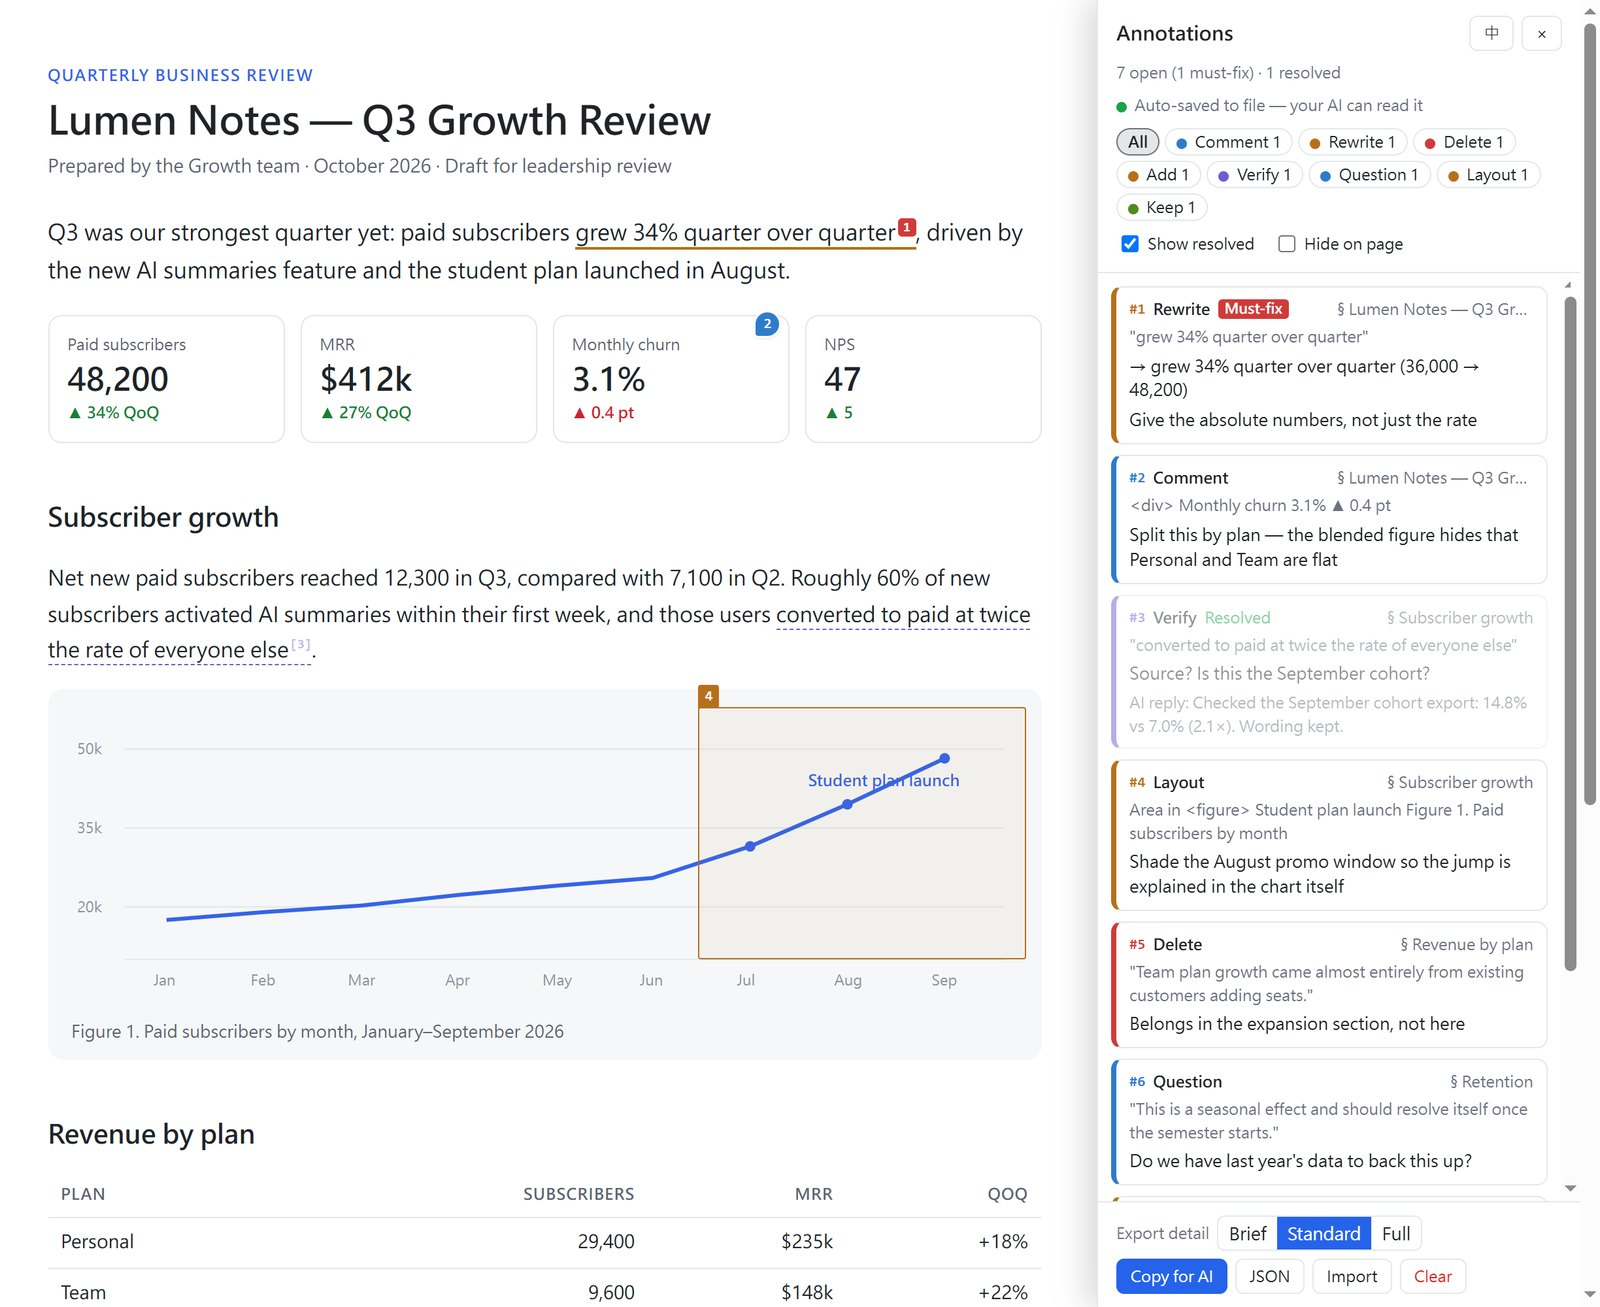
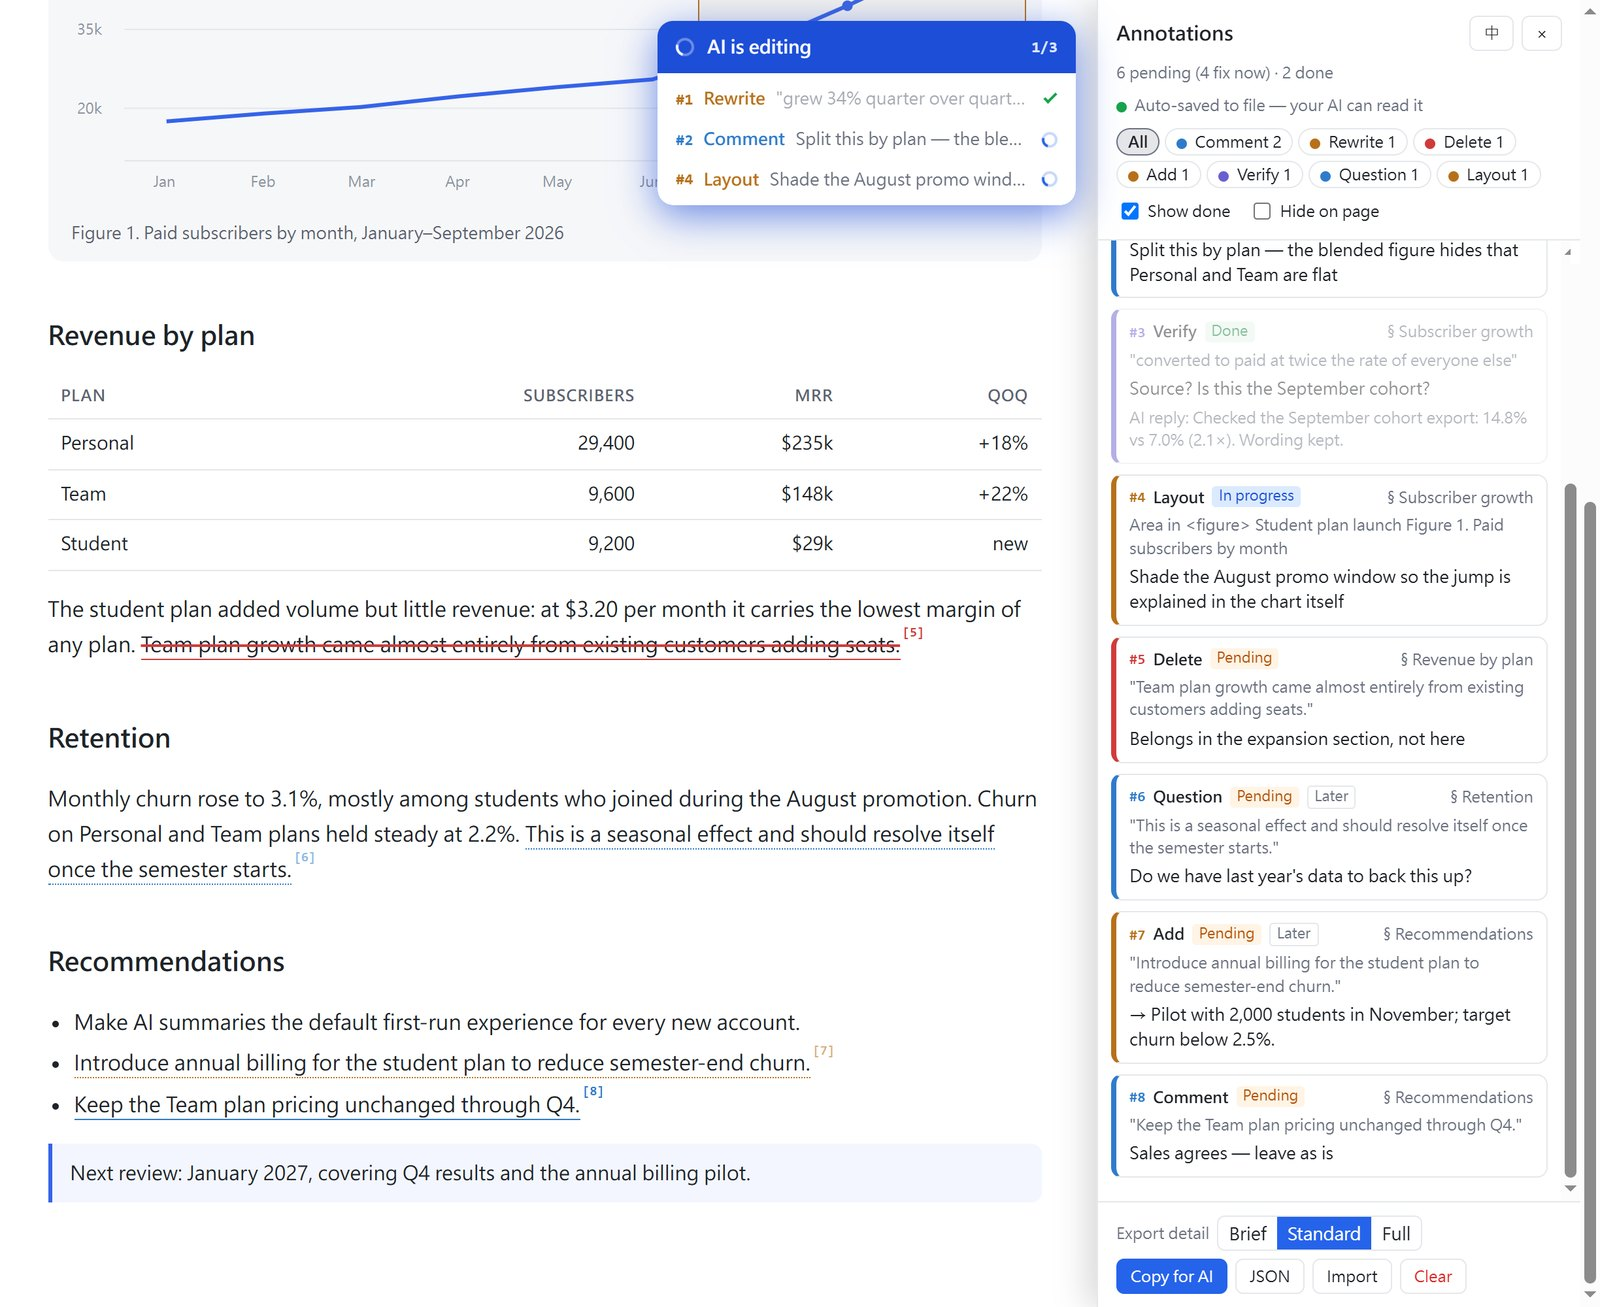
v1.3.0 docs, showcase and screenshots; number anchor at end of wrapped marks
- [n] now hangs off a zero-width anchor after the last character, so marks that
  wrap across lines show their number at the end (layout still untouched)
- SKILL.md: live watch loop, read the full report first, fix every occurrence
- README rewritten short and plain; covers fix-now, watch, status, live refresh
- Showcase: no "keep", two "later" items; screenshots show the AI banner at 1/3

diff --git a/pin4html.js b/pin4html.js
@@ -533,6 +533,7 @@
     mark.p4h-hl[data-n]::after{content:'[' attr(data-n) ']';position:absolute;left:100%;top:-.55em;margin-left:1px;padding:0 1px;border-radius:2px;
       background:rgba(255,255,255,.85);color:var(--p4h-c);white-space:nowrap;
       font:600 10px/1.2 ui-monospace,SFMono-Regular,Menlo,Consolas,monospace;text-indent:0;letter-spacing:0;text-decoration:none}
+    mark.p4h-hl.p4h-num{border:0!important;padding:0!important;background:none!important;text-decoration:none!important}
     mark.p4h-hl.p4h-later{border-bottom-style:dotted!important}
     mark.p4h-hl.p4h-later[data-n]::after{opacity:.55}
     mark.p4h-hl.p4h-resolved{border-bottom-style:dashed!important;text-decoration:none!important}
@@ -603,7 +604,14 @@
       if (a.kind !== 'text' || !a._range || !visible(a)) continue;
       const marks = wrapRange(a._range[0], a._range[1], a);
       if (!marks.length) a._orphan = true;
-      else marks[marks.length - 1].dataset.n = a._n;
+      else {
+        // 編號掛在最後一個字後面的空 mark（寬度 0），跨行的標記編號才會在句尾、不會跑到開頭
+        const last = marks[marks.length - 1], num = document.createElement('mark');
+        num.className = last.className + ' p4h-num';
+        num.dataset.p4h = a.id; num.dataset.n = a._n;
+        if (last.title) num.title = last.title;
+        last.after(num);
+      }
     }
     pinLayer.textContent = '';
     for (const a of state.annotations) {

diff --git a/README.md b/README.md
@@ -1,20 +1,12 @@
 # Pin4Html
 
-**Pin, highlight or box anything on an HTML report — then hand it to your AI.**
+Right-click to annotate an HTML report. Notes go to `<report>.pins.json` next to it. Your AI reads that file, edits the report, replies — the page updates in place.
 
 ![Pin4Html screenshot](docs/screenshot-en.jpg)
 
-AI agents increasingly produce reports as HTML. Reviewing them usually means screenshots and "the third paragraph under section 2…".
-Pin4Html lets you right-click to annotate the page itself, auto-saves every annotation to a `<report>.pins.json`
-next to the report, and lets the agent write replies back that show up on the page — a closed review loop.
-
-- **Zero dependencies** — one JS file + one Python script (standard library only)
-- **Never touches your report** — the annotator is injected on the fly while serving
-- **Agent-friendly** — `show` prints a compact, numbered list; `reply` writes answers back
-- **English & 繁體中文 UI** — follows the browser language, switchable in the panel
-- Works as a **Claude Code skill** out of the box (any agent that can run a command and read a file can use it)
-
 [繁體中文說明 ↓](#繁體中文)
+
+One JS file, one Python script, standard library only. The report file itself is never touched by the annotator.
 
 ## Quick start
 
@@ -22,27 +14,34 @@ next to the report, and lets the agent write replies back that show up on the pa
 python pin4html.py serve report.html
 ```
 
-Your browser opens the report. Want to look around first? `python pin4html.py serve examples/showcase-en.html`
-opens a sample report with every annotation type already placed (including a resolved AI reply).
-
-Then, on your own report:
+Want to look first: `python pin4html.py serve examples/showcase-en.html` (every annotation type already placed).
 
 | Action | Result |
 |---|---|
-| Select text → right-click | Text highlight with a number; press 1–8 to pick a type |
-| Right-click (no selection) | Drop a pin (a dashed box previews the element it attaches to) |
-| `Alt+D` | Drag to box an area (part of a chart, a layout region) |
+| Select text → right-click | Text annotation; press 1–7 to pick a type |
+| Right-click (no selection) | Pin (dashed box shows the element it sticks to) |
+| `Alt+D` | Box an area |
 | Click / drag a pin | Edit / move |
-| Right-click an annotation | Change type, must-fix, resolved, re-select, delete (undoable) |
-| `Alt+R` / `Alt+H` | Annotation list / hide all annotations |
-| `Shift` + right-click | Native browser menu |
+| Right-click an annotation | Change type, fix now / later, pending / done, re-select, delete (undoable) |
+| `Alt+R` / `Alt+H` | List / hide all |
+| `Shift` + right-click | Browser menu |
 
-**Types:** Comment · Rewrite (with replacement) · Delete · Add · Verify · Question · Layout · Keep — plus must-fix and resolved flags.
-On the page each annotation is a thin colored underline with a `[n]` marker (must-fix = solid red number).
+Types: Comment, Rewrite, Delete, Add, Verify, Question, Layout.
+Status: Pending or Done. Not fixed right? Mark it again.
 
-### Hand it to your AI
+## Fix now
 
-Every change is written to `report.pins.json` (green dot in the corner = synced). On the agent side:
+"Fix now" is checked by default. With an agent running `watch`, those get fixed while you keep reading:
+
+```bash
+python pin4html.py watch report.html      # waits for fix-now pins + ~3 s of quiet, prints them, exits
+```
+
+The agent edits the report, replies, runs `watch` again. Top right of the page shows what it's working on, ticks items off, then disappears. Items it couldn't settle (needs data from you, etc.) get a "?" and stay until you close the box.
+
+Unchecked = later. Say "go ahead" when you're done and the agent handles the rest.
+
+## Agent side
 
 ```bash
 python pin4html.py show report.html                       # read pins (compact, numbered, with context)
@@ -56,18 +55,17 @@ python pin4html.py reply report.html --file replies.json  # write replies back
   "3": "Removed — it duplicated the table" }
 ```
 
-Within ~2 s the open page shows "AI replied"; if the report itself changed, it offers to reload.
-Concurrent edits (you on the page, the agent on the file) are merged per annotation with optimistic locking — nothing gets overwritten.
+Page and agent can write at the same time; nothing gets lost. Annotations float on top and don't change the report's layout.
 
-### Install as a Claude Code skill
+## Claude Code skill
 
 ```bash
 git clone https://github.com/youllook/Pin4Html ~/.claude/skills/pin4html
 ```
 
-Then tell Claude "review this report" — it starts the server; when you're done, say "go ahead" and it reads the pins, edits the report and replies to each one.
+Then "review this report". Claude starts the server and `watch`, fixes fix-now pins as they come in, the rest when you say so.
 
-### Without a server (offline / sharing)
+## No server
 
 ```bash
 python pin4html.py inject report.html          # → report.review.html with the script inlined
@@ -75,37 +73,39 @@ python pin4html.py inject report.html --cdn    # reference the CDN instead
 python pin4html.py strip report.review.html    # remove it again
 ```
 
-Or add one line to any HTML page:
+Or one line in any page:
 
 ```html
 <script src="https://cdn.jsdelivr.net/gh/youllook/Pin4Html@1/pin4html.js"></script>
 ```
 
-In this mode annotations live in the browser's localStorage; hand them over with **Copy for AI** (Markdown: brief / standard / full) or **⬇ JSON**.
+Annotations stay in localStorage then. No live fixing. Hand them over with "Copy for AI" or "JSON".
 
-### Language
+## Language
 
-The UI follows the browser language (`zh*` → 繁體中文, otherwise English). Override it with, in order of precedence:
+`zh*` browser → 繁體中文, else English. Override (first wins):
 
 1. URL parameter `?p4hlang=en` / `?p4hlang=zh`
-2. The **EN / 中** button in the panel (remembered per browser)
+2. The EN / 中 button in the panel
 3. `<script … data-lang="en">`, or `--lang en|zh` on `serve` / `inject`
 
-### `.pins.json` format
+## `.pins.json` format
 
 See [`examples/demo-en.pins.json`](examples/demo-en.pins.json). Each annotation:
 
 | Field | Meaning |
 |---|---|
 | `n` / `id` | Number shown on the page / stable id |
-| `type` | `comment` `rewrite` `delete` `add` `verify` `question` `style` `keep` |
+| `type` | `comment` `rewrite` `delete` `add` `verify` `question` `style` |
 | `kind` | `text` · `pin` · `region` |
 | `quote` `prefix` `suffix` | Quoted text and surrounding context (used to re-anchor) |
 | `path` `rx` `ry` `rw` `rh` | CSS selector and relative position/size for pins and areas |
 | `heading` | Nearest heading above |
 | `note` `replacement` | Note; replacement / content to add |
-| `priority` `resolved` `reply` | `must`/`should`, resolved flag, AI reply |
+| `priority` `resolved` `reply` | `must` = fix now / `should` = later, done flag, AI reply |
 | `replyAt` `replyResolved` | Set by `reply` so a reply survives a simultaneous edit on the page |
+
+Top level `working` = pins the agent is on right now (set by `watch`, cleared by `reply`).
 
 ---
 
@@ -113,23 +113,26 @@ See [`examples/demo-en.pins.json`](examples/demo-en.pins.json). Each annotation:
 
 ![Pin4Html 截圖](docs/screenshot-zh.jpg)
 
-在 HTML 報告上直接右鍵標註，標記即時存成報告旁的 `.pins.json`，AI 讀檔修改並逐條回覆，回覆直接顯示在頁面上。
+HTML 報告上右鍵就能標。標記存在報告旁的 `.pins.json`，AI 讀檔、改報告、回覆，頁面直接更新。
 
 ```bash
 python pin4html.py serve report.html
 ```
 
-- **先看範例**：`python pin4html.py serve examples/showcase.html`，每種標記都已標好（含一則 AI 已回覆並解決）
-- **操作**：選文字＋右鍵＝文字標記；空白處右鍵＝圖釘；`Alt+D`＝框選區域；`Alt+R`＝清單；`Alt+H`＝隱藏標記；`Shift`＋右鍵＝原生選單
-- **類型**：留言、改寫、刪除、補充、查證、疑問、版面、保留，另有必改、已解決；頁面上以細底線＋`[n]` 編號呈現（必改＝紅色實心編號）
-- **交給 AI**：`show` 讀標記、`reply --file replies.json` 寫回覆，開著的頁面約 2 秒內出現「收到 AI 回覆」
-- **Claude Code skill**：`git clone https://github.com/youllook/Pin4Html ~/.claude/skills/pin4html`，之後說「我要審閱這份報告」即可
-- **離線 / 分享**：`inject`（內嵌）、`inject --cdn`、`strip`；或在任何 HTML 加上 CDN 那一行
-- **語言**：預設跟隨瀏覽器；`?p4hlang=zh`、側欄「EN / 中」按鈕、`data-lang` 或 `--lang` 可覆寫
+- 先看範例：`python pin4html.py serve examples/showcase.html`
+- 操作：選字＋右鍵＝文字標記；空白處右鍵＝圖釘；`Alt+D` 框區域；`Alt+R` 清單；`Alt+H` 隱藏；`Shift`＋右鍵＝原生選單
+- 類型：留言、改寫、刪除、補充、查證、疑問、版面
+- 狀態：待處理／已處理。改得不對就再標一次
+- 「立即處理」預設勾。AI 端跑著 `watch` 的話，標完停手幾秒它就開始改，右上角會列出正在改哪幾則、改好打勾；它沒辦法自己決定的會打「?」，等你回
+- 沒勾的是「稍後」，標完說「改吧」再一起處理
+- 標記浮在上面，不會動到報告原本的排版
+- Claude Code skill：`git clone https://github.com/youllook/Pin4Html ~/.claude/skills/pin4html`，然後說「我要審閱這份報告」
+- 沒有伺服器：`inject`、`inject --cdn`、`strip`，或加上面那行 CDN。標記存在瀏覽器，沒有即時改
+- 語言跟瀏覽器；`?p4hlang=zh`、側欄 EN／中、`data-lang`、`--lang` 可改
 
 ## Credits
 
-Interaction ideas (element preview, area boxing, tiered export) were inspired by [onUI](https://github.com/onllm-dev/onUI); the code is an independent implementation.
+Some interaction ideas (element preview, area boxing, tiered export) came from [onUI](https://github.com/onllm-dev/onUI). The code is a separate implementation.
 
 ## License
 

diff --git a/SKILL.md b/SKILL.md
@@ -1,6 +1,6 @@
 ---
 name: pin4html
-description: Pin4Html — 在 HTML 報告上右鍵標註（留言/改寫/刪除/補充/查證/疑問/版面/保留、圖釘、區域框選），標記即時寫入報告旁的 .pins.json，AI 直接讀檔修改並逐條回覆。當用戶說「我要審閱這份報告」「幫我嵌標註」「開審閱模式」「我要在報告上標記」「改報告」「/pin4html」，或 Claude 產出 HTML 報告要交給用戶檢視時觸發；用戶說「標好了」「改吧」「照標記改」時進入回程。Also triggers on "review/annotate this HTML report".
+description: Pin4Html — 在 HTML 報告上右鍵標註（留言/改寫/刪除/補充/查證/疑問/版面、圖釘、區域框選），標記即時寫入報告旁的 .pins.json。勾「立即處理」的標記一標完 AI 就收到並直接改，頁面即時更新；其餘等用戶說「改吧」一次處理。當用戶說「我要審閱這份報告」「幫我嵌標註」「開審閱模式」「我要在報告上標記」「改報告」「/pin4html」，或 Claude 產出 HTML 報告要交給用戶檢視時觸發；用戶說「標好了」「改吧」「照標記改」時處理剩下的標記。Also triggers on "review/annotate this HTML report".
 ---
 
 # Pin4Html — HTML 報告審閱標註
@@ -8,52 +8,71 @@ description: Pin4Html — 在 HTML 報告上右鍵標註（留言/改寫/刪除/
 本 skill 目錄即 repo（https://github.com/youllook/Pin4Html）。以下 `<DIR>` = 本 skill 的 base directory。
 `pin4html.py` 只用 Python 標準庫，不需安裝任何東西。
 
-## 去程：開審閱
+## 開審閱
 
 1. 確認報告路徑（沒講就用最近產出的那份 HTML）。
 2. **背景**啟動伺服器（Bash `run_in_background: true`）：
    ```
    python "<DIR>/pin4html.py" serve "<報告.html>"
    ```
-   - 自動用預設瀏覽器開啟；原檔不會被修改（腳本是即時注入的）。
-   - 標記每次改動自動寫入 `<報告>.pins.json`（與報告同資料夾）。
-   - 預設 port 8770，被占用會自動往後找；同資料夾的其他 .html 也都能標。
-   - 介面語言預設跟隨瀏覽器；要固定就加 `--lang zh` 或 `--lang en`（用戶也能在側欄按 EN／中 切換）。
-3. 一句話告訴用戶：「選文字或直接右鍵標記，Alt+D 框區域；標好跟我說『改吧』」。
+   - 自動開瀏覽器；原檔不會被修改（腳本是即時注入的）。標記自動寫入 `<報告>.pins.json`。
+   - 預設 port 8770，被占用會往後找。語言跟隨瀏覽器，要固定加 `--lang zh|en`。
+3. **背景**啟動 `watch`（即時模式，見下節）：
+   ```
+   python "<DIR>/pin4html.py" watch "<報告.html>"
+   ```
+4. 一句話告訴用戶：「選文字或右鍵標記，Alt+D 框區域；勾『立即處理』的我會馬上改，其他的標好說『改吧』」。
 
-## 回程：照標記改
+## 即時模式：watch 迴圈
 
-1. 讀標記（精簡、含上下文與編號）：
-   ```
-   python "<DIR>/pin4html.py" show "<報告.html>"
-   ```
-   需要完整欄位就直接讀 `<報告>.pins.json`。
-2. 改**原檔**。定位：文字類用 `原文`＋`上下文`；圖釘/區域用 `§標題`＋`<tag>`＋selector（區域另有 x/y/w/h 比例，通常指圖表或版面某一塊）。
-3. 依類型動作：
-   - 改寫 rewrite → 用替換文字；沒給就依說明改寫
-   - 刪除 delete → 刪除，別留空容器或孤兒標點
-   - 補充 add → 在該處加入內容
-   - 查證 verify → 實際查證；查不到就降級描述並在回覆註明，**不可捏造出處**
-   - 疑問 question → 內容問題就改寫釐清，單純提問就只回覆
-   - 版面 layout（style）→ 改 HTML/CSS
-   - 保留 keep → 這段不准動，其他修改波及時也要保住
-   - 留言 comment → 依內容判斷
-   - 【必改】優先；已解決（[resolved]）跳過
-4. 寫回覆（用 Write 工具寫 JSON 檔再執行，key 可用編號或 id）：
-   ```json
-   {"1": {"reply": "已改為同比 12%，並註明比較基準", "resolved": true},
-    "3": "這句刪了，因為與表格重複"}
-   ```
-   ```
-   python "<DIR>/pin4html.py" reply "<報告.html>" --file replies.json
-   ```
-   開著的頁面約 2 秒內會跳出「收到 AI 回覆・報告內容已修改 → 重新載入看新版」。
-   不要直接手改 .pins.json：`reply` 會正確遞增 rev 與 updated，與頁面上的同步不會互相覆蓋。
-5. 在對話中逐條簡報（編號對應），做不到的說明原因。
+`watch` 會等到有「立即處理」且還沒回覆的標記、用戶停手約 3 秒，印出清單後結束。
+它一結束（背景任務通知）就：
+
+1. **先讀整份報告**（這個審閱第一次一定讀；報告被別人改過才重讀）。只看 `watch` 給的片段會改出前後矛盾。
+2. 照下方「各類型怎麼改」改**原檔**。改到某個數字、事實或用詞時，**搜尋全文**，其他出現的地方一起改，回覆裡說明連帶改了哪裡。
+3. 用 `reply` 回覆每一則（見下方）。改好的 `resolved: true`；需要用戶補資料或做決定的只回覆、`resolved: false`。
+4. **再背景啟動 `watch`**，回到等待。
+
+頁面右上角會自動顯示「AI 正在修改」清單與進度，`reply` 送出後逐則打勾；報告檔一改，頁面就地更新、不用重整。
+用戶說審閱結束時，停掉 `watch` 和伺服器。
+
+## 改吧：處理剩下的標記
+
+用戶說「改吧」「照標記改」時，處理所有待處理標記（包含沒勾立即處理的「稍後」）：
+
+```
+python "<DIR>/pin4html.py" show "<報告.html>"
+```
+
+同樣先讀全文、改原檔、`reply`，最後在對話中逐條簡報（編號對應），做不到的說明原因。需要完整欄位就讀 `<報告>.pins.json`。
+
+## 各類型怎麼改
+
+定位：文字類用 quote＋context；圖釘/區域用 `§標題`＋`<tag>`＋selector（區域另有 x/y/w/h 比例，通常指圖表或版面某一塊）。
+
+- 改寫 rewrite → 用 replacement；沒給就依 note 改寫
+- 刪除 delete → 刪除，別留空容器或孤兒標點
+- 補充 add → 在該處加入內容
+- 查證 verify → 實際查證；查不到就降級描述並在回覆註明，**不可捏造出處或數字**
+- 疑問 question → 內容問題就改寫釐清，單純提問就只回覆
+- 版面 layout（style）→ 改 HTML/CSS
+- 留言 comment → 依內容判斷
+- `[later]` = 用戶沒勾立即處理；`[done]` = 已處理，跳過
+
+## 回覆
+
+用 Write 工具寫 JSON 檔再執行，key 可用編號或 id：
+```json
+{"1": {"reply": "已改為 31%，數據卡也一併改了", "resolved": true},
+ "3": {"reply": "報告裡沒有樣本數，請提供", "resolved": false}}
+```
+```
+python "<DIR>/pin4html.py" reply "<報告.html>" --file replies.json
+```
+不要直接手改 .pins.json：`reply` 會正確遞增版本並清掉「處理中」狀態，跟頁面同步不會互相覆蓋。
 
 ## 備援模式（沒有伺服器時）
 
-- 用戶在別處（例如寄給別人）要離線檔：`python "<DIR>/pin4html.py" inject "<報告.html>"` → `<報告>.review.html`（加 `--cdn` 改用 jsDelivr 引用）。
-  此模式標記存瀏覽器 localStorage，用戶要按「複製給 AI」貼回，或下載 JSON 給你讀。
+- 要離線檔（例如寄給別人）：`python "<DIR>/pin4html.py" inject "<報告.html>"` → `<報告>.review.html`（`--cdn` 改用 jsDelivr）。
+  此模式標記存瀏覽器 localStorage，沒有即時模式；用戶按「複製給 AI」貼回，或下載 JSON 給你讀。
 - 移除注入：`python "<DIR>/pin4html.py" strip "<檔案.html>"`
-- 審閱結束記得停掉背景伺服器。
